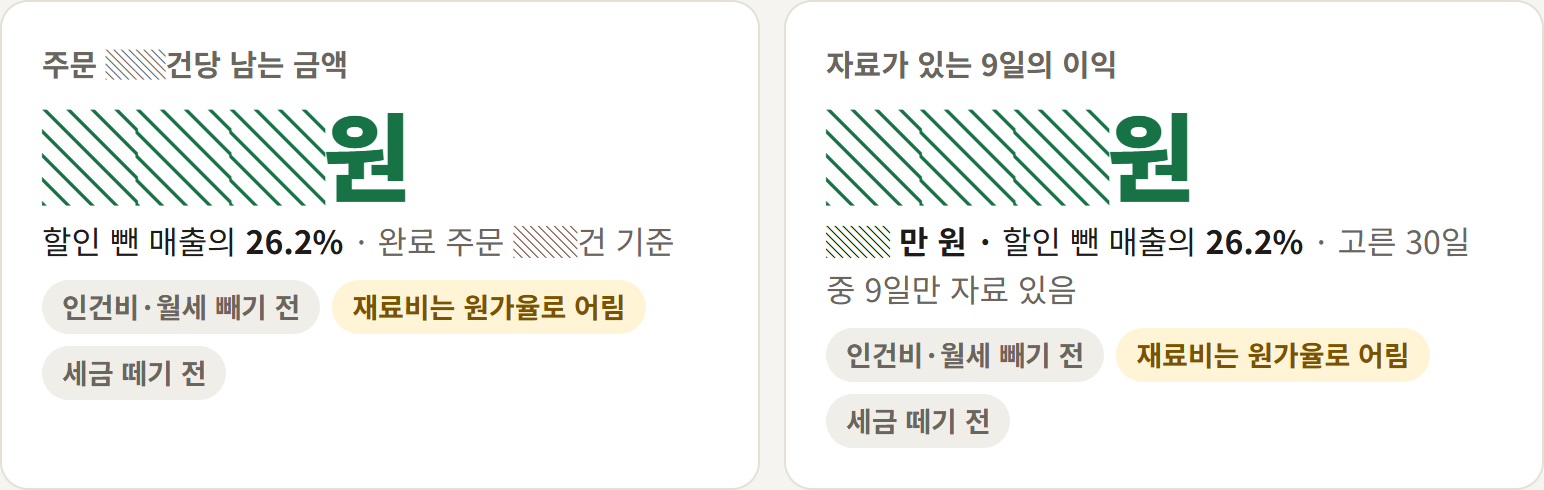
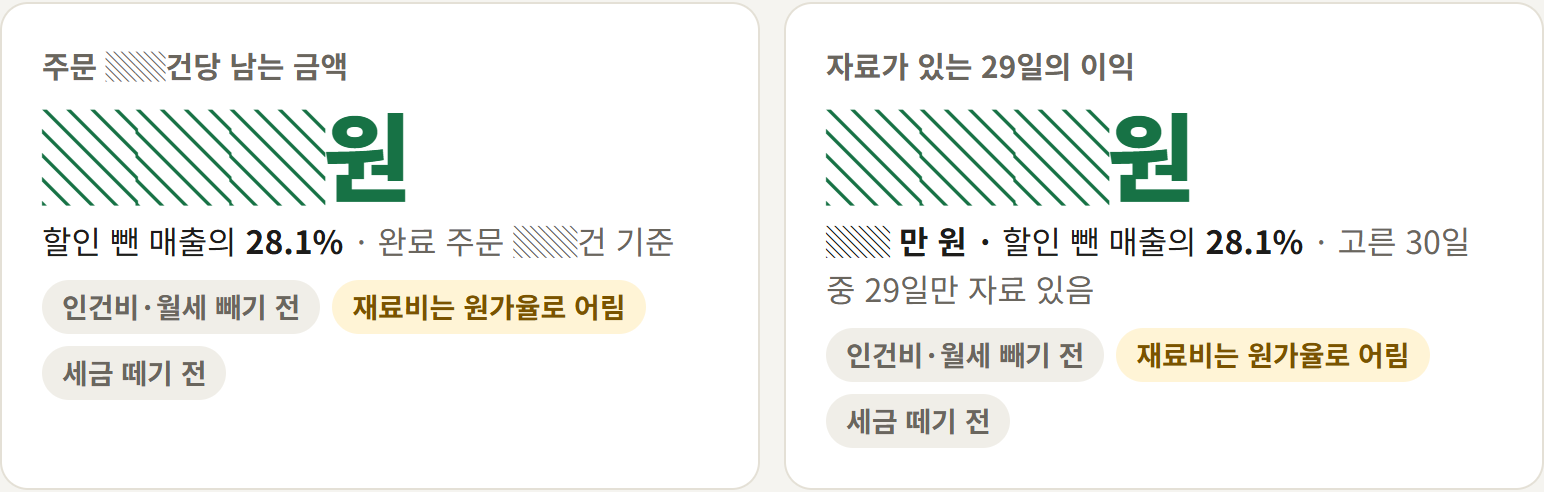
운영사례·가린 실제 화면을 최근 30일 자료(9/13~10/11)로 갱신

diff --git a/docs/운영사례.md b/docs/운영사례.md
@@ -18,6 +18,7 @@
 | 9/18 | 실제 가게 자료를 배민 화면에서 읽어 오는 데 성공(6/1~9/17, 약 4개월). 수집한 월 주문금액이 **배민 가게통계와 일치**하는 것을 확인하고 첫 버전을 배포 |
 | 9/21 | 다른 사장님께 드려서 써 보게 했더니 첫 화면에서 막힘 → 용어를 쉬운 말로 바꾸고 처음 설정을 넣음 |
 | 10/12 | 공유회 준비: 실제 숫자가 섞인 데모를 없애고 가상 자료로 다시 만듦 |
+| 10/13 | 최근 30일 자료를 다시 가져와 반영(5분 안팎, 로그인은 이미 되어 있었음). 아래 비율은 이 자료 기준 |
 
 ## 쓰는 순서 (실제로 하는 일)
 1. PC에서 프로그램을 켜고 **자료 가져오기**를 누른다. 크롬이 열리면 배민에 직접 로그인한다. (비밀번호는 저장하지 않음)
@@ -27,9 +28,10 @@
 
 ## 실제 화면에서 보인 것 (금액은 가림)
 `images/` 의 `실제화면_흐림_*.png` 3장입니다. 금액·건수·가게 이름은 가렸고, 비율만 보입니다.
-- 배민 중개수수료 약 8%, 결제수수료 약 3%, 배달비 약 12%, 부가세 등 약 2% → **수수료·배달비를 합해 할인 뺀 매출의 약 25%** (자료가 있는 9일 기준)
-- 광고비를 넣으면 약 10%가 더 나가 **광고비까지 뺀 돈이 할인 뺀 매출의 약 26%** (재료비는 판매가의 40%로 어림한 값)
-- 요일별로는 일요일 주문이 가장 많고 목요일이 가장 적었음 (요일마다 1~2일치라 **참고만**)
+- 최근 30일(9/13~10/11, 자료가 있는 29일) 기준
+- 배민 중개수수료 약 8%, 결제수수료 약 3%, 배달비 약 12%, 부가세 등 약 2% → **수수료·배달비를 합해 할인 뺀 매출의 약 25%**
+- 광고비는 약 9%가 더 나가 **광고비까지 뺀 돈이 할인 뺀 매출의 약 28%** (재료비는 판매가의 40%로 어림한 값, 인건비·월세는 아직 안 뺌)
+- 요일별로는 일요일 주문이 가장 많고 금요일이 가장 적었음 (요일마다 4~5일치라 **참고용**)
 
 ## 도구를 쓰기 전과 후
 | 같은 일 | 전 | 후 | 어떻게 알았나 |
